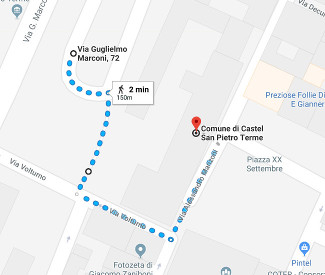
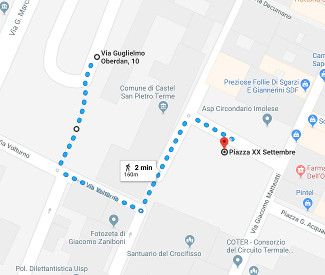
New event description and parking infos

diff --git a/index.html b/index.html
@@ -66,34 +66,40 @@
     <h1 class="w3-text-grey"><b>La cerimonia</b></h1>
     <img class="w3-round" src="images/comune.jpg" alt="comune" style="width:65%">
     <p class="w3-left-align"><i>
-      Ci sposeremo presso la Sala Consiliare del Comune di Castel San Pietro Terme alle ore 11,00 del 22 Aprile 2018. 
-      La Sala probabilmente non riuscirà a contenere tutti, chi vorrà, potrà aspettarci nell’atrio o all’uscita.
-      Vi segnaliamo che proprio il 21 e 22 Aprile a Castel San Pietro si terrà “Very Slow Italy”, 
-      una  manifestazione dedicata alla lentezza in ambito enogastronomico. 
-      In paese ci sarà sicuramente una discreta affluenza di gente, vi indichiamo quindi alcune alternative per 
-      parcheggiare con i relativi percorsi per raggiungere il Comune.
+      Ci sposeremo presso la Sala Consiliare del Comune di Castel San Pietro Terme alle ore 11,00 di domenica 22 Aprile 
+      2018. Vi diamo appuntamento verso le 10,30 sotto alla colonna della Madoninna tra gli stand di 
+      <a href="http://www.cittaslow.it/"><b>“Very Slow Italy”</b></a> che ci ospiteranno per un brindisi prima della cerimonia.
+      La Sala probabilmente non riuscirà a contenere tutti, chi vorrà, potrà aspettarci nell’atrio o curiosare tra le bancarelle.
+      In occasione di questa manifestazione ci sarà sicuramente una discreta affluenza di gente, vi indichiamo quindi alcune 
+      alternative per parcheggiare con i relativi percorsi per raggiungere il Comune.
     </i></p><br>
-    <div class="w3-row">
+    <div class="w3-row w3-center">
       <div class="w3-third">
-        <h2>P1</h2>
+        <p>Parcheggio dietro al Comune</p>
         <p><a href="https://goo.gl/maps/GHsc5yUqDPv">
           <img class="maps" alt="P1" src="images/P1.jpg" style="width:90%">
         </a></p>
-        <p>Reception & Dinner - 5:00pm</p>
+        <p>Molto comodo, a soli 2 minuti a piedi dal Comune, si accede da via Marconi.</p>
+        <a href="https://www.google.it/maps/dir/44.3983474,11.588893//@44.3981059,11.588889,19z" 
+        class="w3-button w3-green">Portami al parcheggio</a>
       </div>
       <div class="w3-third">
-        <h2>P2</h2>
+        <p>Parcheggio dell'Ospedale Civile</p>
         <p><a href="https://goo.gl/maps/3k936K7PyAN2">
           <img class="maps" alt="P2" src="images/P2.jpg" style="width:90%">
         </a></p>
-        <p>Some where, some address</p>
+        <p>Molto ampio a 5 minuti dal Comune ma prevede una rampa di scale.</p>
+        <a href="https://www.google.it/maps/dir/44.3977265,11.5931038//@44.3979564,11.5903599,18z/data=!4m2!4m1!3e2" 
+        class="w3-button w3-green">Portami al parcheggio</a>
       </div>
       <div class="w3-third">
-        <h2>P3</h2>
+        <p>Parcheggio alle Scuole Pizzigotti</p>
         <p><a href="https://goo.gl/maps/yb4AqAfkfsK2">
           <img class="maps" alt="P3" src="images/P3.jpg" style="width:90%">
         </a></p>
-        <p>Some where, some address</p>
+        <p>A 5 minuti dal Comune, comodo da raggiungere a piedi.</p>
+        <a href="https://www.google.it/maps/dir//44.3948421,11.5875948/@44.395166,11.5878724,19z" 
+        class="w3-button w3-green">Portami al parcheggio</a>
       </div>
     </div>
   </div>
@@ -250,6 +256,7 @@
         </div>
         <div class="w3-half">
           <button onclick="document.getElementById('id01').style.display='none'" type="button" class="w3-button w3-block w3-red">Can't come</button>
+          <button onclick="window.open('mailto:test@example.com?subject=subject&body=body');" type="button" class="w3-button w3-block w3-red">e-mail</button>
         </div>
       </div>
     </div>
